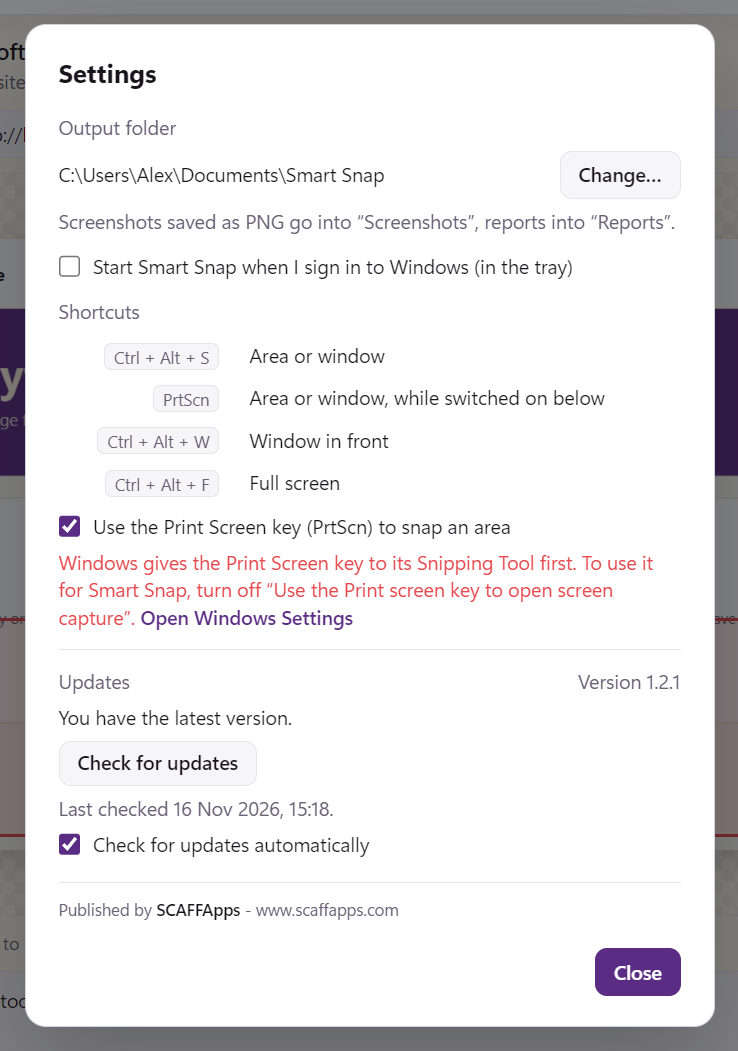
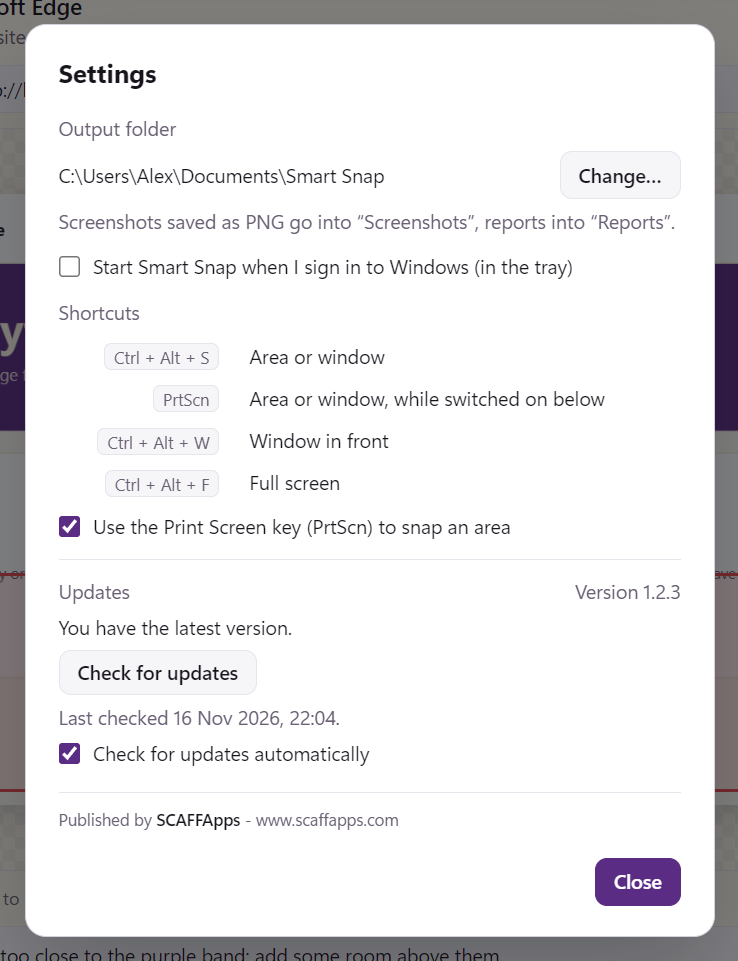
1.2.3: Enter in the comment box also copies that snap as a picture; report pictures stay inside their cards
- Enter (or Save) in the comment box saves the snap and puts that snap alone on the
  clipboard as a picture (its part of the report), drawn in the background so the
  next snap can start at once; the window says "Snap N copied as a picture".
- Copy as picture still copies the whole report; the picture code is shared, each
  picture's page has a name of its own, and the page is measured in a short view so
  a single snap is not padded to 1000 px.
- Screenshots in the report are at most 171 mm wide, the room inside their card
  (182 mm ran past its right edge), in the PDF and in Copy as picture.
- The comment box's hint on two lines; README and handbook say what Enter does;
  handbook pictures retaken.

diff --git a/main.js b/main.js
@@ -675,6 +675,9 @@ async function snap(mode, wait = 0) {
       const n = list.find((x) => x.id === saved.id);
       if (n) { n.text = answer.text; writeSnaps(list); }
     }
+    // Saved with Enter (or Save): this snap alone goes on the clipboard as a
+    // picture, drawn meanwhile, so the next snap can start at once.
+    if (answer.action === 'save') queueSnapPicture(saved.id);
     // Saved from the box, Smart Snap stays out of the way, unless asked to open
     // or the snap was started from its own window.
     notify('snaps-changed', { select: saved.id, fresh: answer.action === 'open' });
@@ -734,10 +737,11 @@ function linkHtml(url) {
 function snapHtml(n, number) {
   const src = pathToFileURL(snapImage(n.id)).href;
   const a = n.app || {};
-  // A4 with 14 mm margins leaves 182 mm across; the picture is kept short
+  // A4 with 14 mm margins leaves 182 mm across, and the snap's card (5 mm
+  // padding and a border each side) 171 mm inside it; the picture is kept short
   // enough for the snap and its details to share a page.
   const ratio = n.imgW / n.imgH;
-  let w = 182; let h = w / ratio;
+  let w = 171; let h = w / ratio;
   if (h > 150) { h = 150; w = h * ratio; }
   // Small snaps are not blown up beyond about their size on screen.
   const naturalW = n.imgW * 0.2;
@@ -770,6 +774,8 @@ function snapHtml(n, number) {
 
 // `opts.picture`: drawn for one tall picture instead of printed pages. The page
 // then keeps the A4 width and its margins itself, on white, without a scrollbar.
+// `opts.single`: one snap's part alone, without the report's heading and
+// summary, numbered `opts.number` as in the list.
 function reportHtml(list, opts) {
   const apps = [...new Set(list.map((n) => (n.app && (n.app.name || n.app.process)) || 'Unknown'))];
   const summary = list.map((n, i) => {
@@ -824,8 +830,9 @@ function reportHtml(list, opts) {
   .mark span { display: inline-grid; place-items: center; min-width: 5mm; height: 5mm; padding: 0 1mm; color: #fff; background: #e5484d; border-radius: 2.5mm; font-size: 8pt; font-weight: 700; line-height: 1; }
   .mark.point span { position: absolute; left: 3mm; top: -8mm; }
   ${opts.picture ? 'html { background: #fff; scrollbar-width: none; } body { padding: 12mm 14mm 9mm; } .snap:last-child { margin-bottom: 0; }' : ''}
+  ${opts.single ? 'body { padding: 6mm 8mm; }' : ''}
 </style></head><body>
-<header>
+${opts.single ? snapHtml(list[0], opts.number || 1) : `<header>
   <div class="brand"><img src="${pathToFileURL(ICON).href}" alt="">${APP_NAME}</div>
   <h1>${esc(opts.title)}</h1>
   <div class="cards">
@@ -836,7 +843,7 @@ function reportHtml(list, opts) {
   </div>
   <table class="sum"><tr><th>#</th><th>Application</th><th>Page, window or folder</th><th>Time</th></tr>${summary}</table>
 </header>
-${list.map((n, i) => snapHtml(n, i + 1)).join('')}
+${list.map((n, i) => snapHtml(n, i + 1)).join('')}`}
 </body></html>`;
 }
 
@@ -856,7 +863,9 @@ function reportInput(opts) {
 // to `use`, and closes it. A picture needs the window drawn off screen: Chromium
 // does not paint a hidden window, so there would be nothing to capture.
 async function withReportPage(list, opts, use) {
-  const htmlFile = path.join(snapsDir(), opts.picture ? 'report-picture.html' : 'report.html');
+  // A picture's page has a name of its own: one snap's picture may still be
+  // drawing while the next one, or the whole report's, starts.
+  const htmlFile = path.join(snapsDir(), opts.picture ? `picture-${crypto.randomUUID()}.html` : 'report.html');
   let win;
   try {
     fs.writeFileSync(htmlFile, reportHtml(list, opts));
@@ -911,29 +920,57 @@ const PICTURE_MAX_H = 16000; // in pixels; Chromium cannot capture much taller
 const withTimeout = (promise, ms) =>
   Promise.race([promise, new Promise((_, reject) => setTimeout(() => reject(new Error('timed out')), ms))]);
 
+// The report's page (`opts` as for reportHtml, `picture` added) as one picture.
+async function reportPicture(list, opts) {
+  const image = await withReportPage(list, { ...opts, picture: true }, async (wc) => {
+    wc.debugger.attach('1.3');
+    const send = (method, params) => wc.debugger.sendCommand(method, params);
+    const metrics = (height, deviceScaleFactor) =>
+      send('Emulation.setDeviceMetricsOverride', { width: PICTURE_W, height, deviceScaleFactor, mobile: false });
+    // Measured in a short view: the content is never counted shorter than the
+    // view, and one snap alone can be shorter than a tall one.
+    await metrics(100, 1);
+    const { cssContentSize } = await send('Page.getLayoutMetrics');
+    const height = Math.ceil(cssContentSize.height);
+    await metrics(height, Math.min(2, PICTURE_MAX_H / height));
+    // Closing the window (on a timeout) ends a capture that never finishes.
+    const { data } = await withTimeout(send('Page.captureScreenshot', { format: 'png' }), 20000);
+    return nativeImage.createFromBuffer(Buffer.from(data, 'base64'));
+  });
+  if (image.isEmpty()) throw new Error('empty picture');
+  return image;
+}
+
 async function copyReport(opts) {
   const { list, title, author } = reportInput(opts);
   if (!list.length) return { error: 'There are no screenshots to report.' };
   try {
-    const image = await withReportPage(list, { title, author, picture: true }, async (wc) => {
-      wc.debugger.attach('1.3');
-      const send = (method, params) => wc.debugger.sendCommand(method, params);
-      const metrics = (height, deviceScaleFactor) =>
-        send('Emulation.setDeviceMetricsOverride', { width: PICTURE_W, height, deviceScaleFactor, mobile: false });
-      await metrics(1000, 1);
-      const { cssContentSize } = await send('Page.getLayoutMetrics');
-      const height = Math.ceil(cssContentSize.height);
-      await metrics(height, Math.min(2, PICTURE_MAX_H / height));
-      // Closing the window (on a timeout) ends a capture that never finishes.
-      const { data } = await withTimeout(send('Page.captureScreenshot', { format: 'png' }), 20000);
-      return nativeImage.createFromBuffer(Buffer.from(data, 'base64'));
-    });
-    if (image.isEmpty()) throw new Error('empty picture');
+    const image = await reportPicture(list, { title, author });
     clipboard.writeImage(image);
     return { ...image.getSize(), count: list.length };
   } catch (err) {
     return { error: 'The report could not be copied as a picture.' };
   }
+}
+
+// One snap as a picture on the clipboard: its part of the report alone (its
+// number, application, comment, screenshot and details), as it is now. Snaps
+// saved one after another are copied in turn, so the last one saved is the one
+// left on the clipboard. The window, when it is open, says so.
+let snapPictures = Promise.resolve();
+function queueSnapPicture(id) {
+  snapPictures = snapPictures.then(async () => {
+    const list = readSnaps();
+    const i = list.findIndex((n) => n.id === id);
+    if (i < 0 || !fs.existsSync(snapImage(id))) return;      // deleted or reported meanwhile
+    try {
+      const image = await reportPicture([list[i]], { title: APP_NAME, single: true, number: i + 1 });
+      clipboard.writeImage(image);
+      notify('snap-copied', { number: i + 1 });
+    } catch {
+      notify('snap-error', `Snap ${i + 1} is saved, but it could not be copied as a picture. Copy picture in Smart Snap copies its screenshot alone.`);
+    }
+  });
 }
 
 // ---- Interface ----------------------------------------------------------------

diff --git a/handbook/handbook.html b/handbook/handbook.html
@@ -163,14 +163,14 @@
       <tr><td>Full screen</td><td><kbd>Ctrl</kbd> + <kbd>Alt</kbd> + <kbd>F</kbd></td><td>The whole display the mouse is on.</td></tr>
     </table>
     <figure class="fill"><div class="shot dark-bg"><img src="img/overlay-area.png" alt=""></div>
-      <figcaption><b>Drag</b> for a rectangle and let go: the comment box opens beside it. Type, then <kbd>Enter</kbd> saves the snap. (A sample desktop.)</figcaption></figure>
+      <figcaption><b>Drag</b> for a rectangle and let go: the comment box opens beside it. Type, then <kbd>Enter</kbd> saves the snap and copies it as a picture. (A sample desktop.)</figcaption></figure>
     <div class="split">
       <figure><div class="shot fit dark-bg"><img src="img/overlay-window.png" alt=""></div>
         <figcaption><b>Or click a window:</b> the one under the mouse is outlined in gold, with its name and size.</figcaption></figure>
       <ol class="hsteps">
         <li><span><b>The screen dims, still live</b>A short guide shows at the top. <kbd>Esc</kbd> or a right-click cancels.</span></li>
         <li><span><b>Drag or click</b>Press, drag and release for a rectangle; click for the window under the mouse; <kbd>Enter</kbd> for the whole display.</span></li>
-        <li><span><b>Write the comment</b>In the box beside the area. <b>Save and open</b> opens Smart Snap to mark a spot; <kbd>Esc</kbd> discards the snap.</span></li>
+        <li><span><b>Write the comment</b>In the box beside the area. <kbd>Enter</kbd> saves the snap and copies it, alone, as a picture to paste into a chat. <b>Save and open</b> opens Smart Snap to mark a spot; <kbd>Esc</kbd> discards the snap.</span></li>
       </ol>
     </div>
     <div class="gtk gold">

diff --git a/app/overlay.html b/app/overlay.html
@@ -63,11 +63,11 @@
 <form id="card" hidden autocomplete="off">
   <div class="head"><b id="c-title">Snap</b><span id="c-app"></span></div>
   <textarea id="c-text" rows="4" spellcheck="true" placeholder="Describe what you see here…"></textarea>
-  <div class="keys">Enter saves · Shift+Enter new line · Esc discards the snap</div>
+  <div class="keys">Enter saves and copies it as a picture<br>Shift+Enter new line · Esc discards the snap</div>
   <div class="row">
     <button type="button" id="c-discard" title="Throw this snap away">Discard</button>
     <button type="button" id="c-open" title="Save, then open Smart Snap to mark a spot or area on the picture">Save and open</button>
-    <button type="submit" id="c-save" class="primary" title="Save the snap with this comment (Enter)">Save</button>
+    <button type="submit" id="c-save" class="primary" title="Save the snap with this comment and copy it as a picture, to paste into a chat, an email or a document (Enter)">Save</button>
   </div>
 </form>
 <script>

diff --git a/preload.js b/preload.js
@@ -8,6 +8,7 @@ contextBridge.exposeInMainWorld('smartSnap', {
   snap: (mode, wait) => ipcRenderer.invoke('snap', mode, wait),
   onChanged: (callback) => ipcRenderer.on('snaps-changed', (_e, info) => callback(info)),
   onError: (callback) => ipcRenderer.on('snap-error', (_e, message) => callback(message)),
+  onCopied: (callback) => ipcRenderer.on('snap-copied', (_e, info) => callback(info)),
   snaps: {
     list: () => ipcRenderer.invoke('snaps-list'),
     update: (id, change) => ipcRenderer.invoke('snaps-update', id, change),

diff --git a/app/renderer.js b/app/renderer.js
@@ -228,6 +228,8 @@ api.onChanged(async (info) => {
   if (info && info.fresh) $('comment').focus();
 });
 api.onError((message) => toast(message, [], true));
+// Saved with Enter in the comment box: that snap alone is on the clipboard.
+api.onCopied((info) => toast(`Snap ${info.number} copied as a picture: paste it into a chat, an email or a document.`));
 
 // ---- Report -------------------------------------------------------------------
 $('report-btn').onclick = () => {

diff --git a/README.md b/README.md
@@ -2,7 +2,7 @@
 
 Smart Snap takes screenshots that remember where they came from. Each snap records the application it was taken from, the window title and, for web browsers, the address of the page. Add a comment, mark a spot, and turn all your snaps into one PDF report.
 
-Version 1.2.2 · Windows 10 and 11 (64-bit) · Published by SCAFFApps
+Version 1.2.3 · Windows 10 and 11 (64-bit) · Published by SCAFFApps
 
 The **[handbook](https://github.com/Rady193/smart-snap/releases/latest)** (`Smart-Snap-Handbook-<version>.pdf`, on the Releases page) explains everything, with pictures.
 
@@ -24,7 +24,7 @@ The **[handbook](https://github.com/Rady193/smart-snap/releases/latest)** (`Smar
 
 ## Install
 
-Download `Smart-Snap-Setup-1.2.2.exe` from the [Releases page](https://github.com/Rady193/smart-snap/releases/latest) and run it, or install it from the **SCAFFApps Suite**. It installs for everyone on the computer, in `C:\Program Files\SCAFFApps\Smart Snap` unless you choose another folder, so Windows asks for administrator permission once. It adds a desktop shortcut and a Start menu shortcut in the **SCAFFApps** folder, and can be removed from Windows Settings. A copy installed by an earlier version in `C:\Program Files\Smart Snap` moves to the SCAFFApps folder when it updates.
+Download `Smart-Snap-Setup-1.2.3.exe` from the [Releases page](https://github.com/Rady193/smart-snap/releases/latest) and run it, or install it from the **SCAFFApps Suite**. It installs for everyone on the computer, in `C:\Program Files\SCAFFApps\Smart Snap` unless you choose another folder, so Windows asks for administrator permission once. It adds a desktop shortcut and a Start menu shortcut in the **SCAFFApps** folder, and can be removed from Windows Settings. A copy installed by an earlier version in `C:\Program Files\Smart Snap` moves to the SCAFFApps folder when it updates.
 
 Since 1.1.0 Smart Snap is installed, not portable. A portable copy from before cannot update itself to it: install it with the installer once, then delete the portable file.
 
@@ -47,7 +47,7 @@ The first SCAFFApps app to start on a Windows account asks for your **name** and
 1. Open Smart Snap. It also puts an icon in the tray, next to the clock.
 2. Go to the program or web page you want to capture.
 3. Press **Ctrl + Alt + S** and drag over the part of the screen you want, or click a window to take all of it.
-4. A box opens beside the area: type what the reader should notice and press **Enter** (**Shift + Enter** starts a new line). To also mark a spot on the picture, choose **Save and open** instead, then click or drag on the picture in Smart Snap.
+4. A box opens beside the area: type what the reader should notice and press **Enter** (**Shift + Enter** starts a new line). The snap is saved and copied to the clipboard as a picture, ready to paste into a chat. To also mark a spot on the picture, choose **Save and open** instead, then click or drag on the picture in Smart Snap.
 5. Repeat for as many snaps as you need.
 6. Press **Create PDF report**.
 
@@ -69,7 +69,7 @@ The same three are buttons at the top of the Smart Snap window and items in the 
 
 **The comment box.** Once an area is chosen, it stays outlined and a box beside it asks for the snap's comment, as Multi Screens asks for a note's. The picture is already taken: the box and the dimming are not in it. Type, then:
 
-- **Save** (or **Enter**; **Shift + Enter** starts a new line) keeps the snap with its comment. Smart Snap stays out of the way, so you can go straight on to the next snap; the snap is in its list.
+- **Save** (or **Enter**; **Shift + Enter** starts a new line) keeps the snap with its comment and copies it to the clipboard as a picture: that snap's part of the report alone (its number, application, comment, screenshot and details), ready to paste into a chat, an email or a document. The picture is there about a second later. Smart Snap stays out of the way, so you can go straight on to the next snap; the snap is in its list, and if its window is open it says the snap was copied.
 - **Save and open** keeps it and opens Smart Snap on it, to mark a spot or an area on the picture.
 - **Discard** (or **Esc**) throws the snap away.
 
@@ -121,7 +121,7 @@ The report is A4, with numbered pages. It contains:
 
 After it is created, choose **Open** or **Show in folder**. Reports are saved in the `Reports` folder.
 
-**Copy as picture**, in the same window and in the bar beside **Create PDF report**, puts the whole report on the clipboard as one tall picture instead, to paste into a chat, an email or a document. It uses the title and name typed in the form (the last ones typed, from the bar), saves nothing, and keeps the screenshots in Smart Snap whatever **Keep the screenshots** says, so you can still create the PDF afterwards. A very long report is drawn smaller so it fits in one picture.
+**Copy as picture**, in the same window and in the bar beside **Create PDF report**, puts the whole report (every snap, not only the last one saved with **Enter**) on the clipboard as one tall picture instead, to paste into a chat, an email or a document. It uses the title and name typed in the form (the last ones typed, from the bar), saves nothing, and keeps the screenshots in Smart Snap whatever **Keep the screenshots** says, so you can still create the PDF afterwards. A very long report is drawn smaller so it fits in one picture.
 
 ## Updates
 

diff --git a/RELEASE-NOTES.md b/RELEASE-NOTES.md
@@ -1,5 +1,45 @@
 # Release notes
 
+## 1.2.3 — 16 November 2026
+
+Enter copies the snap as a picture, and the report's pictures stay inside their cards.
+
+### Downloads
+
+| File | Size | SHA-256 |
+|---|---|---|
[2 lines of base64/hex data omitted]
+
+For 64-bit Windows 10 and 11. Not code-signed, so Windows SmartScreen may ask for confirmation on first run.
+
+### New
+
+- **Enter in the comment box also copies the snap as a picture.** Enter (or Save) keeps the snap with its comment, as before, and puts that one snap on the clipboard as a picture: its part of the report alone (number, application, comment, screenshot, close-up and details), ready to paste into a chat, an email or a document. It is there about a second later; the next snap can start at once, and when several are saved one after another the last one saved is left on the clipboard. The box says so ("Enter saves and copies it as a picture"), and Smart Snap's window, when it is open, says "Snap N copied as a picture". **Save and open** and **Discard** copy nothing.
+
+### Fixed
+
+- **A wide screenshot no longer runs past the right edge of its card** in the PDF report and in Copy as picture. Screenshots are drawn at most 171 mm wide, the room inside the card; wide ones are about 6% smaller than in 1.2.2, small ones are unchanged.
+
+### Changed
+
+- **Copy as picture** in the bar and in the report form still copies the whole report, every snap.
+- **The handbook**, `Smart-Snap-Handbook-1.2.3.pdf`: Enter in the comment box, and the report pages and the comment box pictured again.
+
+### Updating from 1.2.2 or earlier
+
+- Settings > Updates > **Update now**, or **Update** in the SCAFFApps Suite.
+
+### Tested
+
+- The one-snap picture and the whole report's picture drawn by Smart Snap's own report code from sample snaps: the one-snap picture holds that snap alone, as tall as its card; a snap removed before its turn copies nothing; the whole report copied twice in a row gives the same picture both times; the PDF's pages keep every screenshot inside its card.
+- Installed over 1.2.2 on a working computer the way the SCAFFApps Suite updates it (silently, with Windows' permission): Windows lists 1.2.3, Smart Snap opened again and holds the Print Screen key.
+- Microsoft Defender finds nothing in the installer.
+
+### Not tested
+
+- **Enter pressed in the comment box after a real snap** was not driven by a test (tests never snap the screen of the computer they run on); it saves through the same path as before, then draws the picture tested above.
+
 ## 1.2.2 — 16 November 2026
 
 In step with the other SCAFFApps apps: Quit Smart Snap, and the keyboard's place shown.
